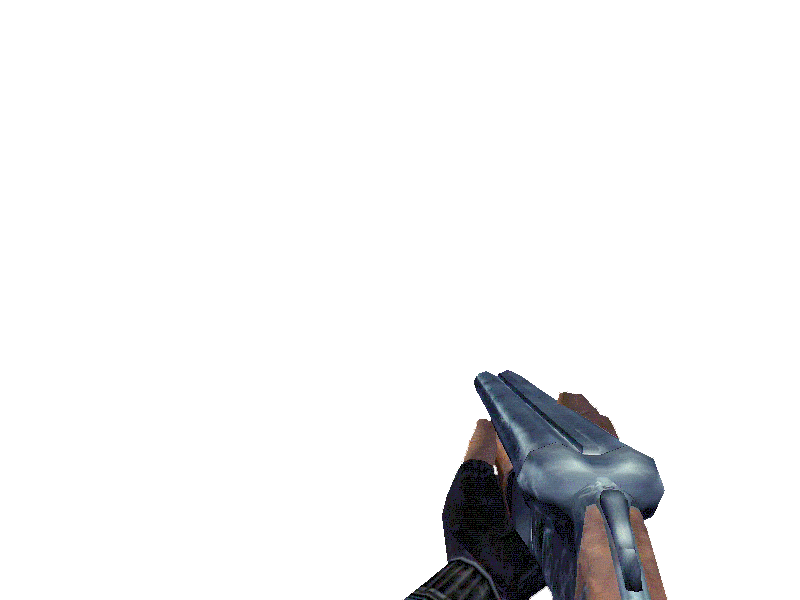
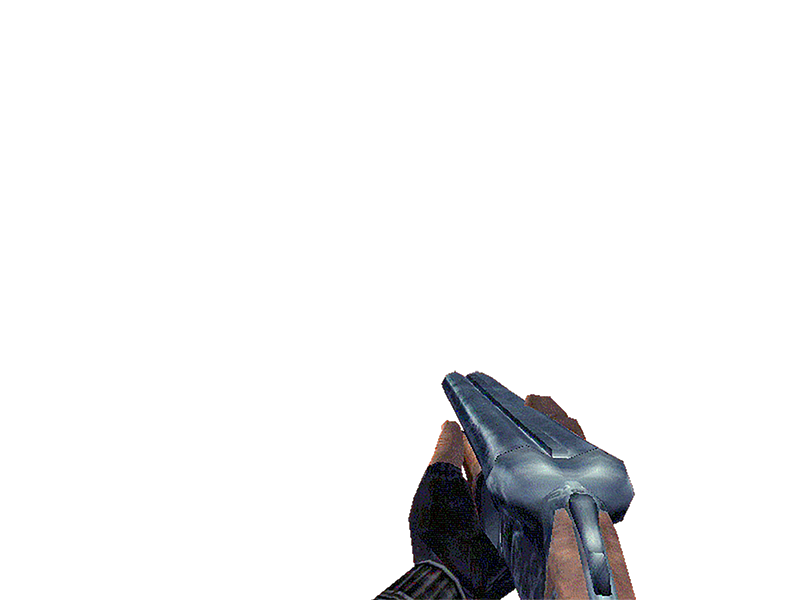
hud + sprites pompe

Changed region(s): [[0.4688, 0.6, 0.8438, 1.0]]

diff --git a/srcs/ui/draw_hud.c b/srcs/ui/draw_hud.c
@@ -6,7 +6,7 @@
 /*   By: abaille <abaille@student.42.fr>            +#+  +:+       +#+        */
 /*                                                +#+#+#+#+#+   +#+           */
 /*   Created: 2019/03/09 21:56:11 by abaille           #+#    #+#             */
-/*   Updated: 2019/03/15 18:22:16 by abaille          ###   ########.fr       */
+/*   Updated: 2019/03/16 17:39:38 by abaille          ###   ########.fr       */
 /*                                                                            */
 /* ************************************************************************** */
 
@@ -50,12 +50,10 @@ int	check_object_stack(t_env *env, int ref, t_ixy start)
 
 	if ((iter = check_object_type(env, ref)) > -1)
 	{
-		if (((ref > 1 && ref < 5) && check_wpn_stack(env, ref)) || ref < 2)
-			sprite = env->world.objects[iter].sprite;
+		if (((ref > 1 && ref < 5) && check_wpn_stack(env, ref)) || ref < 2 || ref == 5)
+			sprite = env->player.hud.objects[ref];
 		else
 			sprite = env->player.hud.empty_b;
-		draw_img(env, env->player.hud.full_b, start,
-		(t_edge){{0, 0}, {env->player.hud.full_b->w, env->player.hud.full_b->h}});
 		draw_img(env, sprite, start,
 		(t_edge){{0, 0}, {sprite->w, sprite->h}});
 	}
@@ -75,13 +73,13 @@ int	print_pad(t_env *env)
 	size_b = env->player.hud.empty_b->w + 2;
 	check_object_stack(env, 0, start);
 	start.x += size_b;
-	check_object_stack(env, 1, (t_ixy){ start.x, start.y});
+	check_object_stack(env, 1, start);
 	start.x += size_b;
 	i = 2;
 	while (i < 5)
-		check_object_stack(env, i++, (t_ixy){ start.x, start.y});
+		check_object_stack(env, i++, start);
 	start.x += size_b;
-	check_object_stack(env, 5, (t_ixy){ start.x, start.y});
+	check_object_stack(env, 5, start);
 	return (0);
 }
 
@@ -105,16 +103,16 @@ int print_hud(t_env *env)
 			return (0);
 	}
 	index = h > 50 ? (int)(h / 50) - 1 : 0;
-	draw_img(env, env->player.hud.faces[index], (t_ixy){W / 128, H - H / 2.5},
+	draw_img(env, env->player.hud.faces[index], (t_ixy){W / 128, H - H / 2.8},
 	(t_edge){{0, 0}, {env->player.hud.faces[index]->w,
 	env->player.hud.faces[index]->h}});
 	limit_bar = size_bar(env->player.hud.bar[0]->w,
 	env->player.max_health, env->player.health);
-	draw_img(env, env->player.hud.bar[0], (t_ixy){W / 128, H - H / 2.5},
+	draw_img(env, env->player.hud.bar[0], (t_ixy){W / 128, H - H / 2.8},
 	(t_edge){{0, 0}, {limit_bar, env->player.hud.bar[0]->h}});
 	limit_bar = size_bar(env->player.hud.bar[1]->w,
 	env->player.max_shield, env->player.shield);
-	draw_img(env, env->player.hud.bar[1], (t_ixy){W / 128, H - H / 2.5},
+	draw_img(env, env->player.hud.bar[1], (t_ixy){W / 128, H - H / 2.8},
 	(t_edge){{0, 0}, {limit_bar, env->player.hud.bar[1]->h}});
 	print_pad(env);
 	return (1);

diff --git a/srcs/ui/struct_weapon.c b/srcs/ui/struct_weapon.c
@@ -6,7 +6,7 @@
 /*   By: abaille <abaille@student.42.fr>            +#+  +:+       +#+        */
 /*                                                +#+#+#+#+#+   +#+           */
 /*   Created: 2019/03/10 22:20:50 by abaille           #+#    #+#             */
-/*   Updated: 2019/03/15 16:18:11 by abaille          ###   ########.fr       */
+/*   Updated: 2019/03/16 17:43:54 by abaille          ###   ########.fr       */
 /*                                                                            */
 /* ************************************************************************** */
 
@@ -45,7 +45,6 @@ SDL_Surface **weapon_fill(char *path, int size)
 void weapon_set(t_weapon *weapon, char *name, int dam)
 {
     char *r_path;
-    char *s_path;
     char *sprite;
     char *shoot;
     long ref;
@@ -61,7 +60,6 @@ void weapon_set(t_weapon *weapon, char *name, int dam)
     weapon->ammo_magazine = weapon_mask(ref, 9);
     weapon->damage = dam;
     r_path = ft_strjoin(name, "/reload/");
-    s_path = ft_strjoin(name, "/shoot/");
     sprite = ft_strjoin(name, "/");
     sprite = ft_strljoin(sprite, name);
     shoot = ft_strjoin(name, "/");
@@ -70,8 +68,8 @@ void weapon_set(t_weapon *weapon, char *name, int dam)
     weapon->sprite_reload = weapon_fill(r_path, weapon->time_reload);
     weapon->sprite_shoot = img_wpn(shoot);
     free(r_path);
-    free(s_path);
     free(sprite);
+    free(shoot);
 }
 
 int		init_weapon(t_env *env)
@@ -80,15 +78,17 @@ int		init_weapon(t_env *env)
 
     i = 0;
 	env->world.armory[0].ref = 0xa2a0602012a2;
-	env->world.armory[1].ref = 0xa1e0502011a3;
+	env->world.armory[1].ref = 0xa2a020201123;
 	env->world.armory[2].ref = 0xa8e2002012f4;
 	weapon_set(&env->world.armory[0], "pistol", 17);
-	weapon_set(&env->world.armory[1], "ak47", 12);
+	weapon_set(&env->world.armory[1], "pompe", 100);
 	weapon_set(&env->world.armory[2], "rifle", 30);
     while (i < 3)
         env->player.inventory.weapons[i++].current = NULL;
     env->player.inventory.current = NULL;
     env->player.inventory.weapons[0].current = env->engine.sectors[0].head_object;
     env->player.inventory.current = &env->player.inventory.weapons[0];
+    env->player.inventory.current->ammo_current = 50;
+    env->player.inventory.current->ammo_magazine = 100;
     return (0);
 }

diff --git a/srcs/ui/struct_hud.c b/srcs/ui/struct_hud.c
@@ -6,7 +6,7 @@
 /*   By: abaille <abaille@student.42.fr>            +#+  +:+       +#+        */
 /*                                                +#+#+#+#+#+   +#+           */
 /*   Created: 2019/03/10 22:18:12 by abaille           #+#    #+#             */
-/*   Updated: 2019/03/15 18:23:06 by abaille          ###   ########.fr       */
+/*   Updated: 2019/03/16 17:38:20 by abaille          ###   ########.fr       */
 /*                                                                            */
 /* ************************************************************************** */
 
@@ -52,6 +52,12 @@ int init_hud(t_env *env)
     && (env->player.hud.hud_wpn[2] = ui_img("hud/hud_rifle"))
     && (env->player.hud.empty_b = ui_img("hud/hud_empty"))
     && (env->player.hud.full_b = ui_img("hud/hud_full"))
+    && (env->player.hud.objects[0] = ui_img("hud/hud_health"))
+    && (env->player.hud.objects[1] = ui_img("hud/hud_armor"))
+    && (env->player.hud.objects[2] = ui_img("hud/hud_ammo1"))
+    && (env->player.hud.objects[3] = ui_img("hud/hud_ammo2"))
+    && (env->player.hud.objects[4] = ui_img("hud/hud_ammo3"))
+    && (env->player.hud.objects[5] = ui_img("hud/hud_jetpack"))
     // && (env->player.hud.pad = ui_img("hud/pad3"))
     // && (env->player.hud.e_pad[0] = ui_img("hud/hud_e_kit"))
     // && (env->player.hud.e_pad[1] = ui_img("hud/hud_e_armor"))

diff --git a/srcs/gameplay/sdl_hook.c b/srcs/gameplay/sdl_hook.c
@@ -6,7 +6,7 @@
 /*   By: abaille <abaille@student.42.fr>            +#+  +:+       +#+        */
 /*                                                +#+#+#+#+#+   +#+           */
 /*   Created: 2019/03/10 22:16:52 by abaille           #+#    #+#             */
-/*   Updated: 2019/03/15 18:20:43 by abaille          ###   ########.fr       */
+/*   Updated: 2019/03/16 17:01:15 by abaille          ###   ########.fr       */
 /*                                                                            */
 /* ************************************************************************** */
 
@@ -43,9 +43,10 @@ int			sdl_keyhook_game(t_env *env, SDL_Event ev, const Uint8 *keycodes)
 	if (ev.type == SDL_KEYDOWN || ev.type == SDL_KEYUP)
 	{
 		/*if (keycodes[SDL_SCANCODE_C])
-			pick_object(env, env->engine.sectors[0].head_object);
+			pick_object(env, env->engine.sectors[0].head_object);*/
 		if (keycodes[SDL_SCANCODE_V])
 			pick_object(env, env->engine.sectors[0].head_object->next);
+		/*
 		if (keycodes[SDL_SCANCODE_LEFT])
 			p->hud.is_txt = give_health(env, p->hud.shortcut[0]);
 		if (keycodes[SDL_SCANCODE_RIGHT])

diff --git a/srcs/ui/struct_inventory.c b/srcs/ui/struct_inventory.c
@@ -6,7 +6,7 @@
 /*   By: abaille <abaille@student.42.fr>            +#+  +:+       +#+        */
 /*                                                +#+#+#+#+#+   +#+           */
 /*   Created: 2019/03/10 22:18:21 by abaille           #+#    #+#             */
-/*   Updated: 2019/03/15 18:23:47 by abaille          ###   ########.fr       */
+/*   Updated: 2019/03/16 15:04:13 by abaille          ###   ########.fr       */
 /*                                                                            */
 /* ************************************************************************** */
 
@@ -49,8 +49,7 @@ int    init_inventory_ui(t_env *env)
 {
    	// t_rgba	rgba;
 
-    env->player.inventory.ui.front_pic = ui_img("fond800");
-    // set_surface_alpha(env->player.inventory.ui.front_pic, 50, &rgba);
+    env->player.inventory.ui.front_pic = ui_img("fonduke800");
 	env->player.inventory.ui.wwheel = 0;
     env->player.inventory.ui.nb_wpn = 1;
     env->player.inventory.nb_current_obj = 0;

diff --git a/srcs/engine/loop_frames.c b/srcs/engine/loop_frames.c
@@ -6,7 +6,7 @@
 /*   By: abaille <abaille@student.42.fr>            +#+  +:+       +#+        */
 /*                                                +#+#+#+#+#+   +#+           */
 /*   Created: 2019/03/11 15:32:57 by fmadura           #+#    #+#             */
-/*   Updated: 2019/03/15 18:29:47 by abaille          ###   ########.fr       */
+/*   Updated: 2019/03/16 14:48:51 by abaille          ###   ########.fr       */
 /*                                                                            */
 /* ************************************************************************** */
 
@@ -35,7 +35,7 @@ int	loop_frames(t_env *env, int *frame)
 		}
 		else
 		{
-			if (env->world.armory[env->player.inventory.current->current->ref].sprite)
+			if (env->player.inventory.current)
 				put_gun(env, env->world.armory[env->player.inventory.current->current->ref].sprite);
 			*frame = 0;
 		}

diff --git a/srcs/engine/loop.c b/srcs/engine/loop.c
@@ -6,7 +6,7 @@
 /*   By: abaille <abaille@student.42.fr>            +#+  +:+       +#+        */
 /*                                                +#+#+#+#+#+   +#+           */
 /*   Created: 2019/03/15 12:10:00 by fmadura           #+#    #+#             */
-/*   Updated: 2019/03/15 18:19:56 by abaille          ###   ########.fr       */
+/*   Updated: 2019/03/16 14:35:32 by abaille          ###   ########.fr       */
 /*                                                                            */
 /* ************************************************************************** */
 
@@ -69,8 +69,8 @@ int sdl_loop(t_env *env)
 				sdl_render(env, &sdl_render_game);
 
 				//wpn_mouse_wheel(env, ev);
-				//mouse_shoot(env);
-				//sdl_keyhook_game(env, ev, keycodes);
+				mouse_shoot(env);
+				sdl_keyhook_game(env, ev, keycodes);
 				player_move(e, v, keycodes);
 			}
 			else

diff --git a/includes/doom_s_ui.h b/includes/doom_s_ui.h
@@ -6,7 +6,7 @@
 /*   By: abaille <abaille@student.42.fr>            +#+  +:+       +#+        */
 /*                                                +#+#+#+#+#+   +#+           */
 /*   Created: 2019/03/10 13:57:58 by fmadura           #+#    #+#             */
-/*   Updated: 2019/03/15 18:18:44 by abaille          ###   ########.fr       */
+/*   Updated: 2019/03/16 17:38:55 by abaille          ###   ########.fr       */
 /*                                                                            */
 /* ************************************************************************** */
 
@@ -40,6 +40,7 @@ struct						s_hud
 	SDL_Surface			*empty_b;
 	SDL_Surface			*full_b;
 	SDL_Surface			*e_pad[4];
+	SDL_Surface			*objects[6];
 	t_wrap_inv			*shortcut[6];
 	int					is_txt;
 	int					mix;

diff --git a/includes/doom_define.h b/includes/doom_define.h
@@ -6,7 +6,7 @@
 /*   By: abaille <abaille@student.42.fr>            +#+  +:+       +#+        */
 /*                                                +#+#+#+#+#+   +#+           */
 /*   Created: 2018/08/29 11:53:44 by fmadura           #+#    #+#             */
-/*   Updated: 2019/03/15 18:18:13 by abaille          ###   ########.fr       */
+/*   Updated: 2019/03/16 17:39:48 by abaille          ###   ########.fr       */
 /*                                                                            */
 /* ************************************************************************** */
 
@@ -31,8 +31,8 @@
 */
 
 # define W_TEXTURE		256
-# define W				1200
-# define H				800
+# define W				800
+# define H				600
 
 /*
 ** FPS frames

diff --git a/srcs/gameplay/sdl_mouse.c b/srcs/gameplay/sdl_mouse.c
@@ -6,7 +6,7 @@
 /*   By: abaille <abaille@student.42.fr>            +#+  +:+       +#+        */
 /*                                                +#+#+#+#+#+   +#+           */
 /*   Created: 2019/03/10 22:16:41 by abaille           #+#    #+#             */
-/*   Updated: 2019/03/15 16:17:12 by abaille          ###   ########.fr       */
+/*   Updated: 2019/03/16 15:19:53 by abaille          ###   ########.fr       */
 /*                                                                            */
 /* ************************************************************************** */
 
@@ -31,6 +31,5 @@ int	mouse_shoot(t_env *env)
 		else
 			load_weapon(env);
 	}
-	SDL_FlushEvent(SDL_MOUSEBUTTONUP);
 	return (0);
 }

diff --git a/includes/doom.h b/includes/doom.h
@@ -6,7 +6,7 @@
 /*   By: abaille <abaille@student.42.fr>            +#+  +:+       +#+        */
 /*                                                +#+#+#+#+#+   +#+           */
 /*   Created: 2018/08/29 11:52:53 by fmadura           #+#    #+#             */
-/*   Updated: 2019/03/11 15:44:00 by sgalasso         ###   ########.fr       */
+/*   Updated: 2019/03/16 14:24:29 by abaille          ###   ########.fr       */
 /*                                                                            */
 /* ************************************************************************** */
 

diff --git a/includes/doom_s_gameplay.h b/includes/doom_s_gameplay.h
@@ -6,7 +6,7 @@
 /*   By: abaille <abaille@student.42.fr>            +#+  +:+       +#+        */
 /*                                                +#+#+#+#+#+   +#+           */
 /*   Created: 2019/02/25 18:34:12 by fmadura           #+#    #+#             */
-/*   Updated: 2019/03/15 16:08:48 by abaille          ###   ########.fr       */
+/*   Updated: 2019/03/16 14:24:58 by abaille          ###   ########.fr       */
 /*                                                                            */
 /* ************************************************************************** */
 
